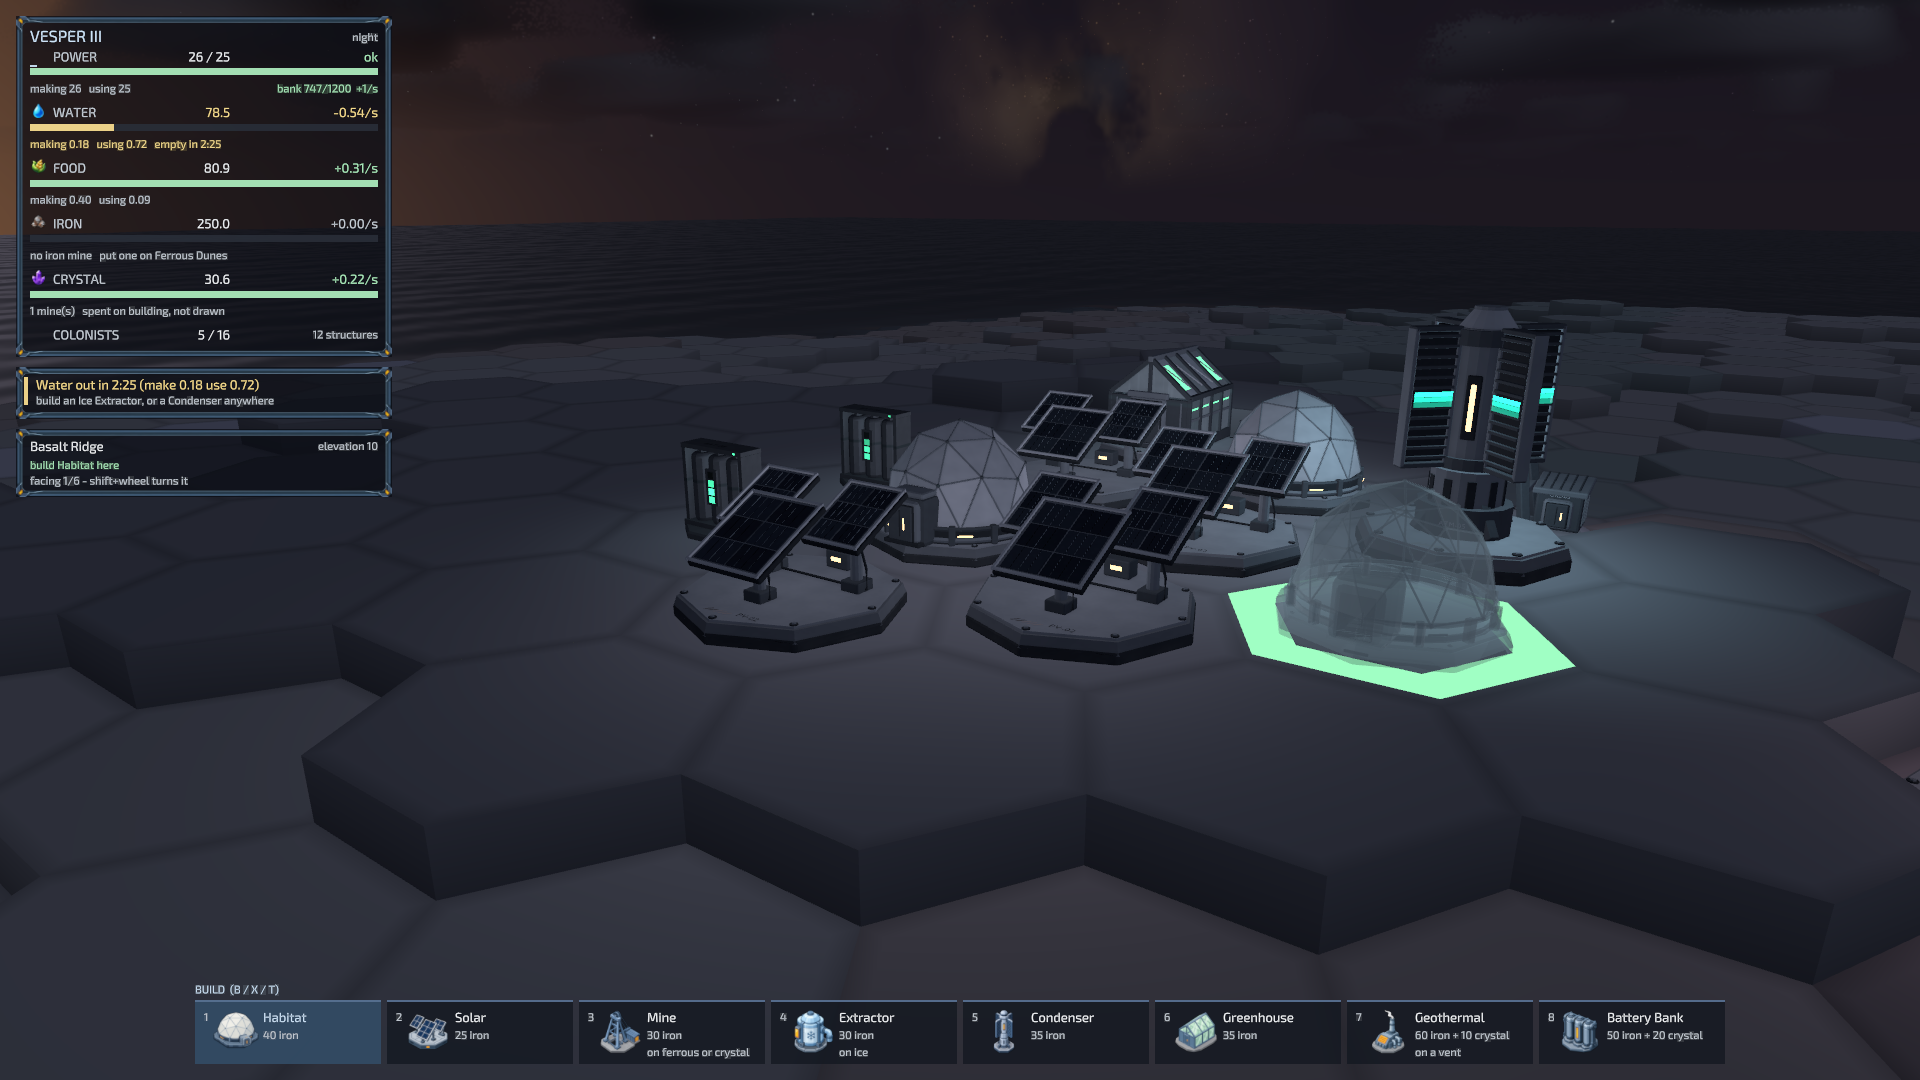
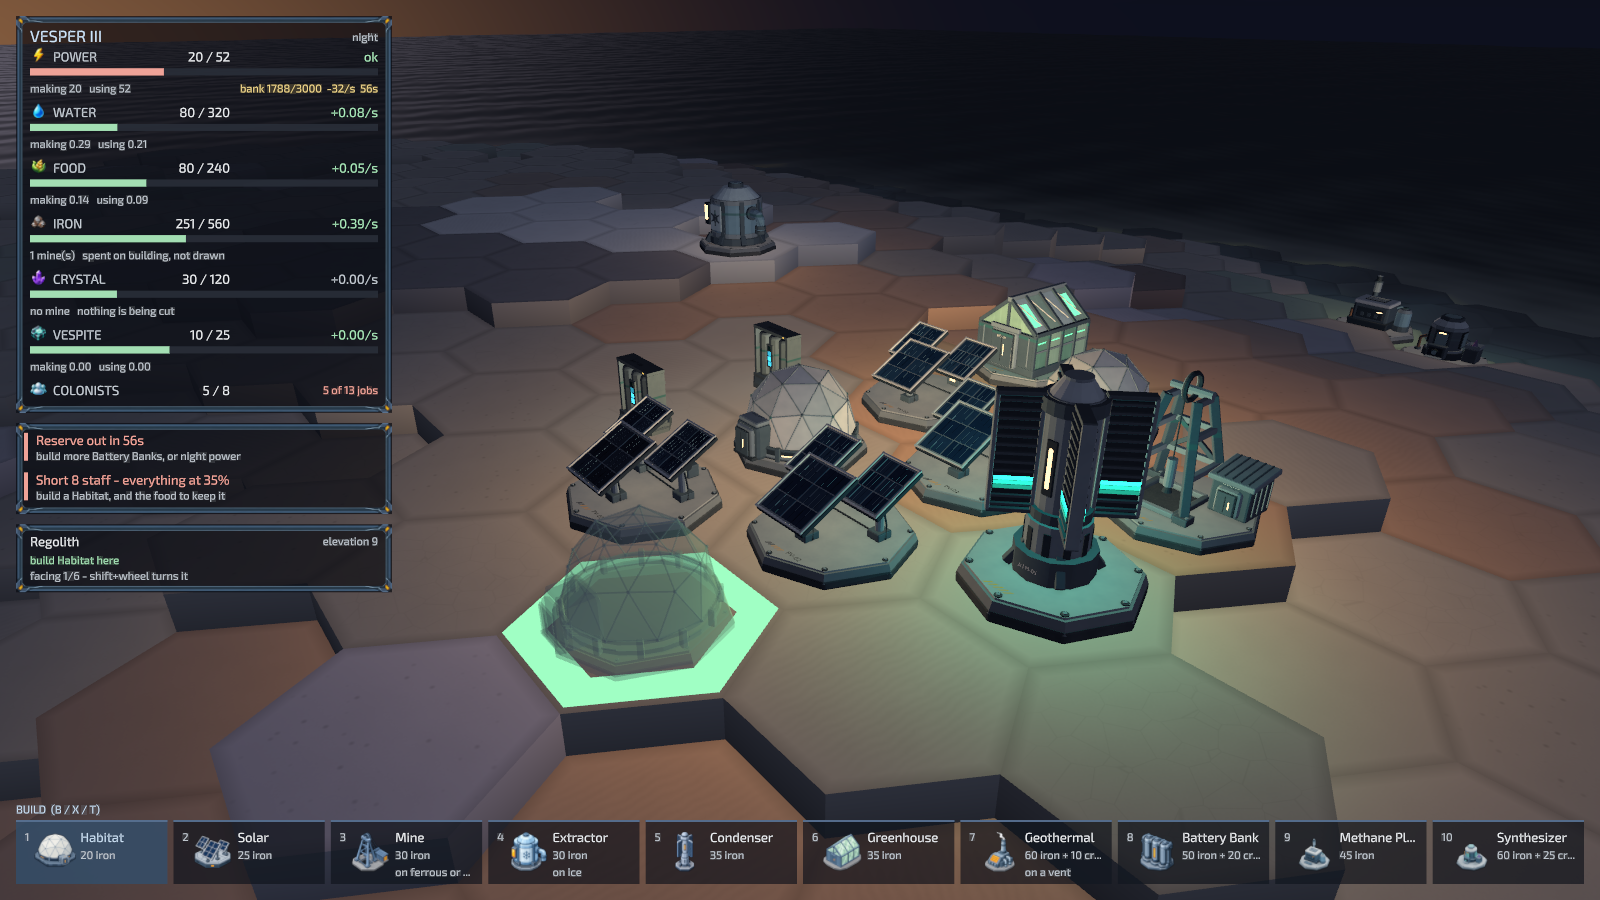
Keep the placement preview off tiles that already have something on them
The preview is the real structure mesh with its material stripped, so on
an occupied tile it interpenetrated whatever was standing there: a red
habitat dome growing out of a solar array, which reads as two buildings
in one place rather than as a refusal. It was in the README screenshot,
where it was the first thing anyone would see.

The red tile marker underneath says "not here" on its own, and says it
about the tile rather than about a building that is never going to exist.
The inspector alongside says which building is already there.

Every other refusal still draws the ghost. On empty ground the mesh is
the useful half — it shows what would be placed and that it would not fit
— so this is narrowly about the one case where two meshes occupy the same
hexagon.

The rule moved out of updateCursor into ghostVisible so it could be
tested without a renderer, which is the same seam menuVisible got for the
same reason.

Screenshots retaken with it, and they were overdue anyway: all four
predate the build radius, vespite, tiers, the methane plant, the
synthesizer, the icon atlas regrid and the lamp tuning. The dusk capture
is worth a look for the lighting alone. Captions corrected to describe
what the images now show, and the atlas listing in the art section still
described an eight-slot hotbar and four resource rows.

diff --git a/internal/game/ghost_test.go b/internal/game/ghost_test.go
@@ -1,0 +1,60 @@
+package game
+
+import (
+	"testing"
+
+	"github.com/derekmwright/vesper3/internal/colony"
+	"github.com/derekmwright/vesper3/internal/hex"
+	"github.com/derekmwright/vesper3/internal/world"
+)
+
+// The preview is the real structure mesh with its material stripped, so over a
+// tile that already has something on it the two interpenetrate - a red habitat
+// dome growing out of a solar array, which reads as two buildings in one place
+// rather than as a refusal. The red tile marker says "not here" on its own.
+func TestThePreviewStaysOffOccupiedTiles(t *testing.T) {
+	m, err := world.NewMap(16, 16, 1)
+	if err != nil {
+		t.Fatal(err)
+	}
+	m.Each(func(_ hex.Axial, tile *world.Tile) {
+		tile.Terrain = world.Regolith
+		tile.Elevation = world.SeaLevel + 2
+	})
+
+	c := colony.New()
+	g := &Game{Map: m, Colony: c}
+	g.intent = newIntent()
+	g.intent.hovering = true
+
+	at := world.FromOffset(5, 5)
+	g.intent.hover = at
+	if !g.ghostVisible() {
+		t.Error("no preview on empty ground, where it is the useful half")
+	}
+
+	if err := c.Found(m, colony.Habitat, at); err != nil {
+		t.Fatal(err)
+	}
+	if g.ghostVisible() {
+		t.Error("preview drawn over a building, which is what makes it read as two")
+	}
+
+	// A refusal on empty ground still shows it: the mesh is how a player sees
+	// what they were about to place.
+	g.intent.hover = at.Neighbor(0)
+	if !g.ghostVisible() {
+		t.Error("preview hidden on an empty neighbour")
+	}
+
+	// And never outside build mode.
+	g.intent.mode = ModeDemolish
+	if g.ghostVisible() {
+		t.Error("preview drawn in demolish mode")
+	}
+	g.intent.mode = ModeBuild
+	g.intent.hovering = false
+	if g.ghostVisible() {
+		t.Error("preview drawn while pointing at the sky")
+	}
+}

diff --git a/internal/game/actions.go b/internal/game/actions.go
@@ -418,12 +418,30 @@ func (g *Game) updateCursor(e *glyph.Engine) {
 		c.R, c.G, c.B = col[0], col[1], col[2]
 	}
 
-	// The ghost only makes sense while building.
-	if g.intent.mode != ModeBuild {
+	if !g.ghostVisible() {
 		g.hideGhost(e)
 		return
 	}
 	g.showGhost(e, mgl32.Vec3{x, y, z}, facingYaw(g.intent.facing), col)
+}
+
+// ghostVisible reports whether the placement preview should be drawn.
+//
+// Only while building, and never over a tile that already has something on
+// it. The preview is the real structure mesh, so on an occupied tile it
+// interpenetrates whatever is standing there - a red habitat dome growing out
+// of a solar array, which reads as two buildings in one place rather than as a
+// refusal. The red tile marker underneath says "not here" on its own, and says
+// it about the tile rather than about a building that is never going to exist.
+//
+// Every other refusal still draws the ghost. On empty ground the mesh is the
+// useful half: it shows what would be placed and that it would not fit there.
+func (g *Game) ghostVisible() bool {
+	if !g.intent.hovering || g.intent.mode != ModeBuild {
+		return false
+	}
+	_, built := g.Colony.At(g.intent.hover)
+	return !built
 }
 
 // canActHere reports whether the current mode's action would succeed on the

diff --git a/README.md b/README.md
@@ -54,21 +54,24 @@ Suggested reading order:
 `docs/` has the captures. Every one was taken by the game itself with
 `-screenshot`, and the flags to re-take it are in the caption.
 
-![A colony on a basalt ridge: domes, solar arrays, a greenhouse and a battery bank, with the resource panel and build bar around them. A red translucent dome marks a placement that is not allowed.](docs/hud.png)
+![A colony on the coast in daylight: domes, solar arrays, a greenhouse, a geothermal plant and a mine, with the resource panel and the ten-slot build bar around them. A red hexagon marks a tile that is already built on.](docs/hud.png)
 
-*A colony in the afternoon. The red dome is the placement preview refusing an
-occupied tile — it is the real habitat mesh with its material stripped, not a
-stand-in. The panel reads left to right as stock against capacity, then rate; the strip
-under it names the building that fixes the problem rather than restating the
-number.*
+*A colony in the afternoon. The red hexagon is the cursor refusing an occupied
+tile — the placement preview itself stays off a tile that has something on it,
+because the preview is the real structure mesh and drawing it there reads as
+two buildings in one place rather than as a refusal. The panel reads left to
+right as stock against capacity, then rate; the strip under it names the
+building that fixes the problem rather than restating the number.*
 
-![The same colony after dark: green charge strips on the battery banks, cyan grow lights in the greenhouse, amber deck lamps, and a translucent green dome showing where the next habitat would go](docs/dusk.png)
+![The same colony after dark: cyan grow lights in the greenhouse, amber deck lamps pooling on the ground, and a translucent green dome showing where the next habitat would go](docs/dusk.png)
 
-*The same colony after sunset. The lights are not decoration — lamp brightness
-is the power grid's satisfaction, so a colony that cannot cover its own demand
-after dark goes dark. The battery banks show their charge on four strips and
-their state on the lamp above them; the greenhouse's grow lights are on because
-it has the power to run them.*
+*The same colony after sunset, and the reason the light budget is worth
+measuring. The lights are not decoration — lamp brightness is the power grid's
+satisfaction, so a colony that cannot cover its own demand after dark goes
+dark. The battery banks show their charge on four strips and their state on the
+lamp above them; the greenhouse's grow lights are on because it has the power
+to run them. The green dome is the placement preview on ground that will take
+it.*
 
 ![The continent of Vesper III from the top of the camera's zoom, hexagonal terrain in ochre, green and slate running to a methane sea](docs/vesper.png)
 
@@ -868,8 +871,8 @@ The cell a source lands in is the number on the front of its filename, so the
 ordering is visible in a directory listing:
 
 ```
-01-habitat.png .. 08-battery.png   the hotbar
-09-water.png .. 12-food.png        the resource rows
+01-habitat.png .. 10-synthesizer.png   the hotbar
+11-water.png .. 17-vespite.png        the resource rows
 ```
 
 Those numbers are read as numbers, not sorted as text. Sorting by name worked
